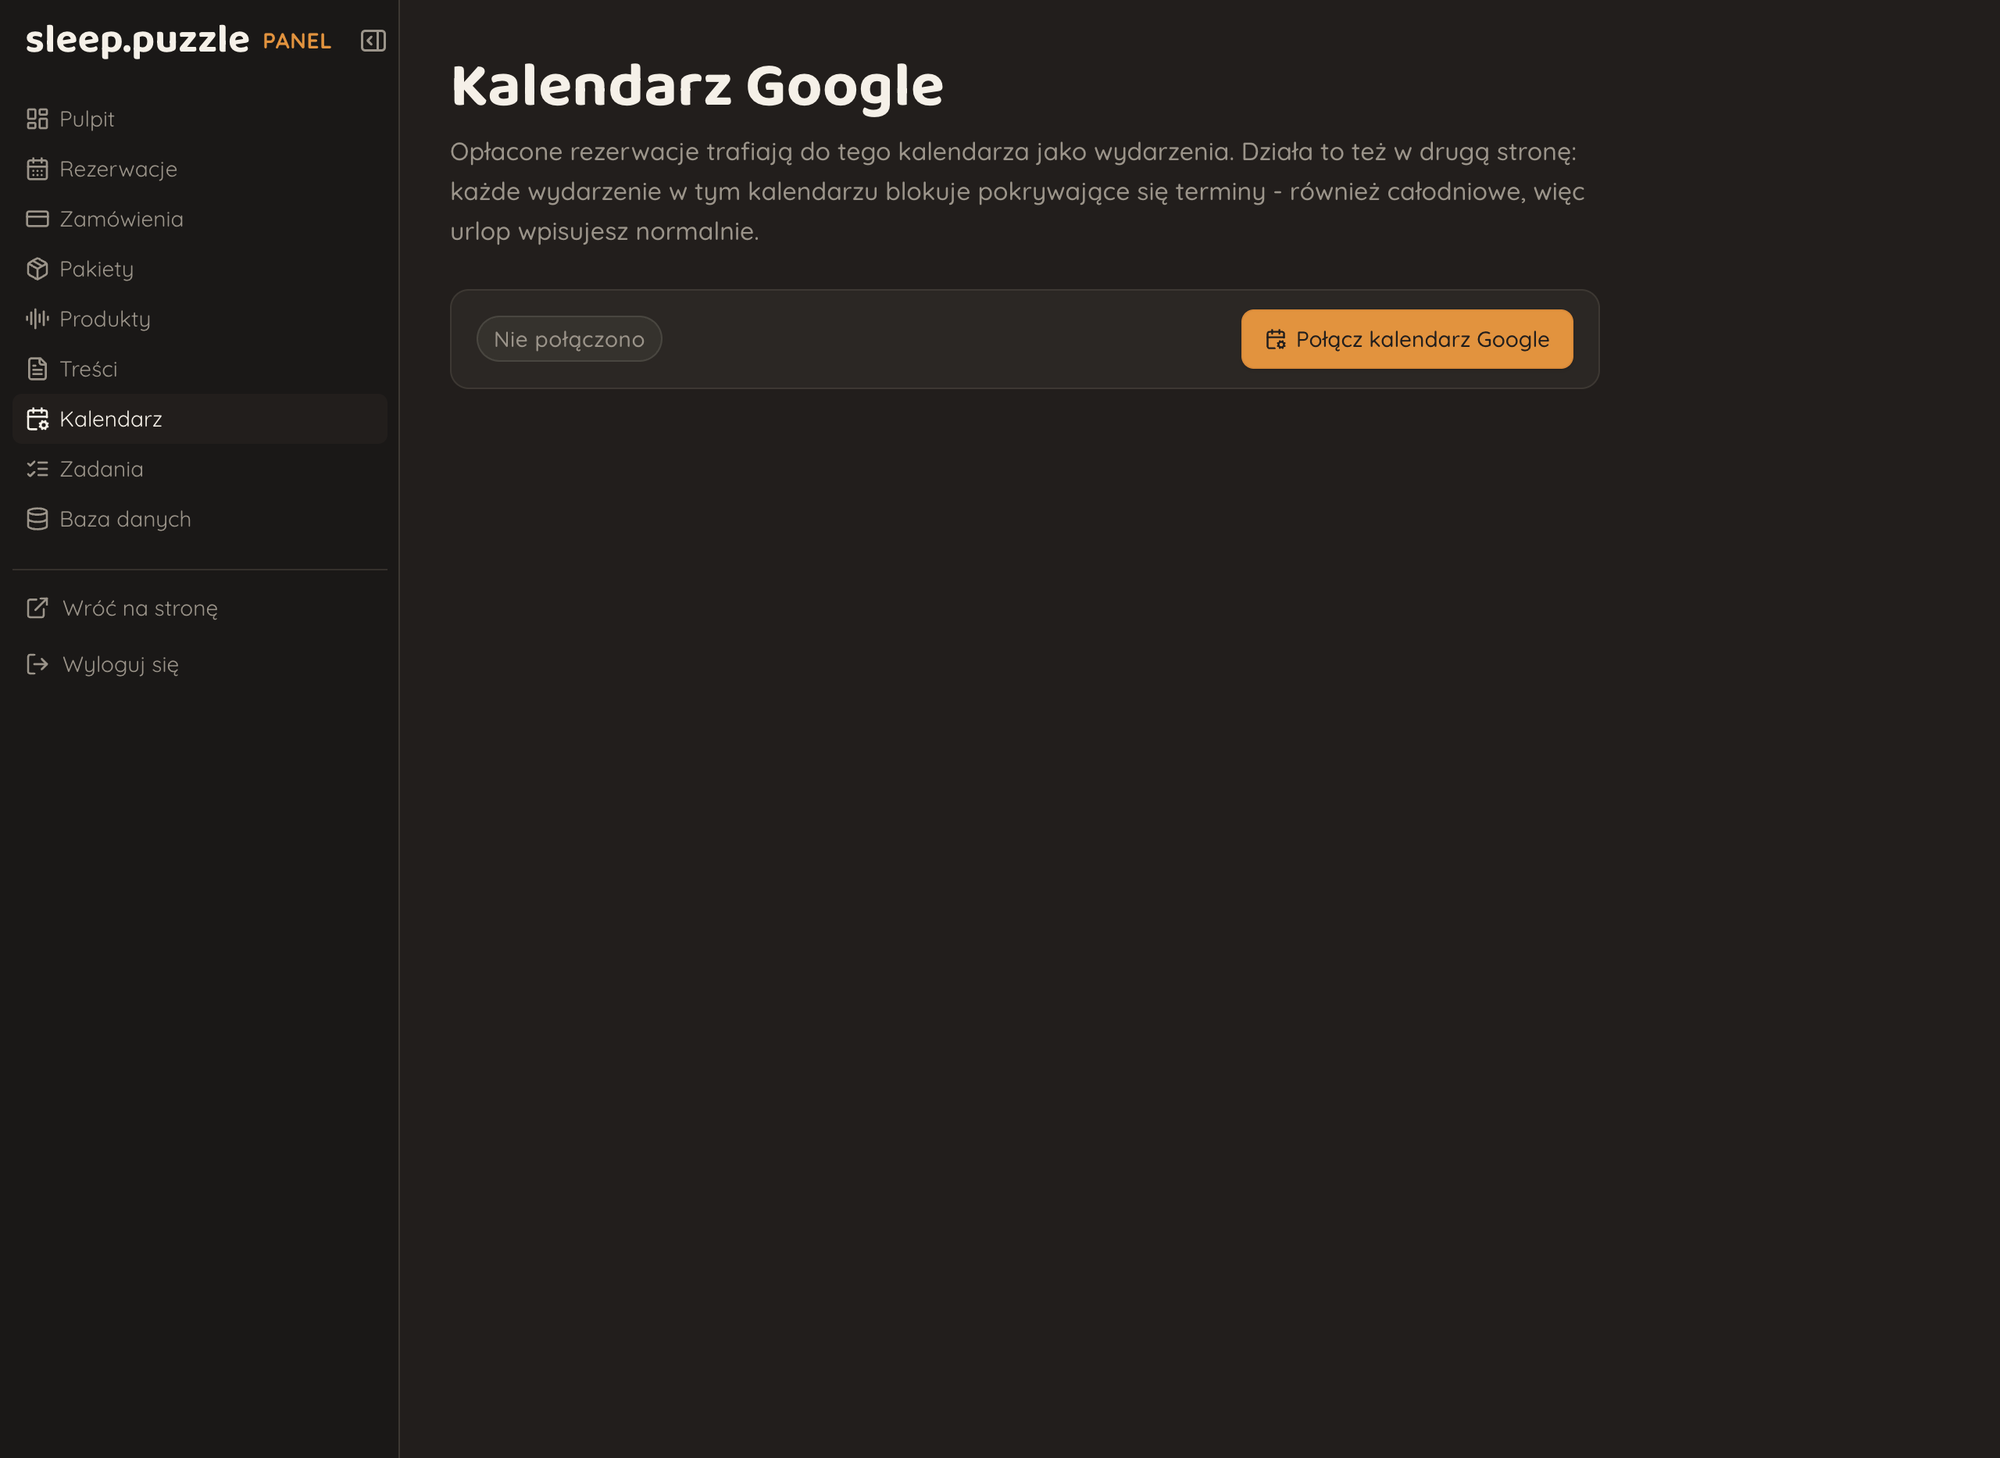
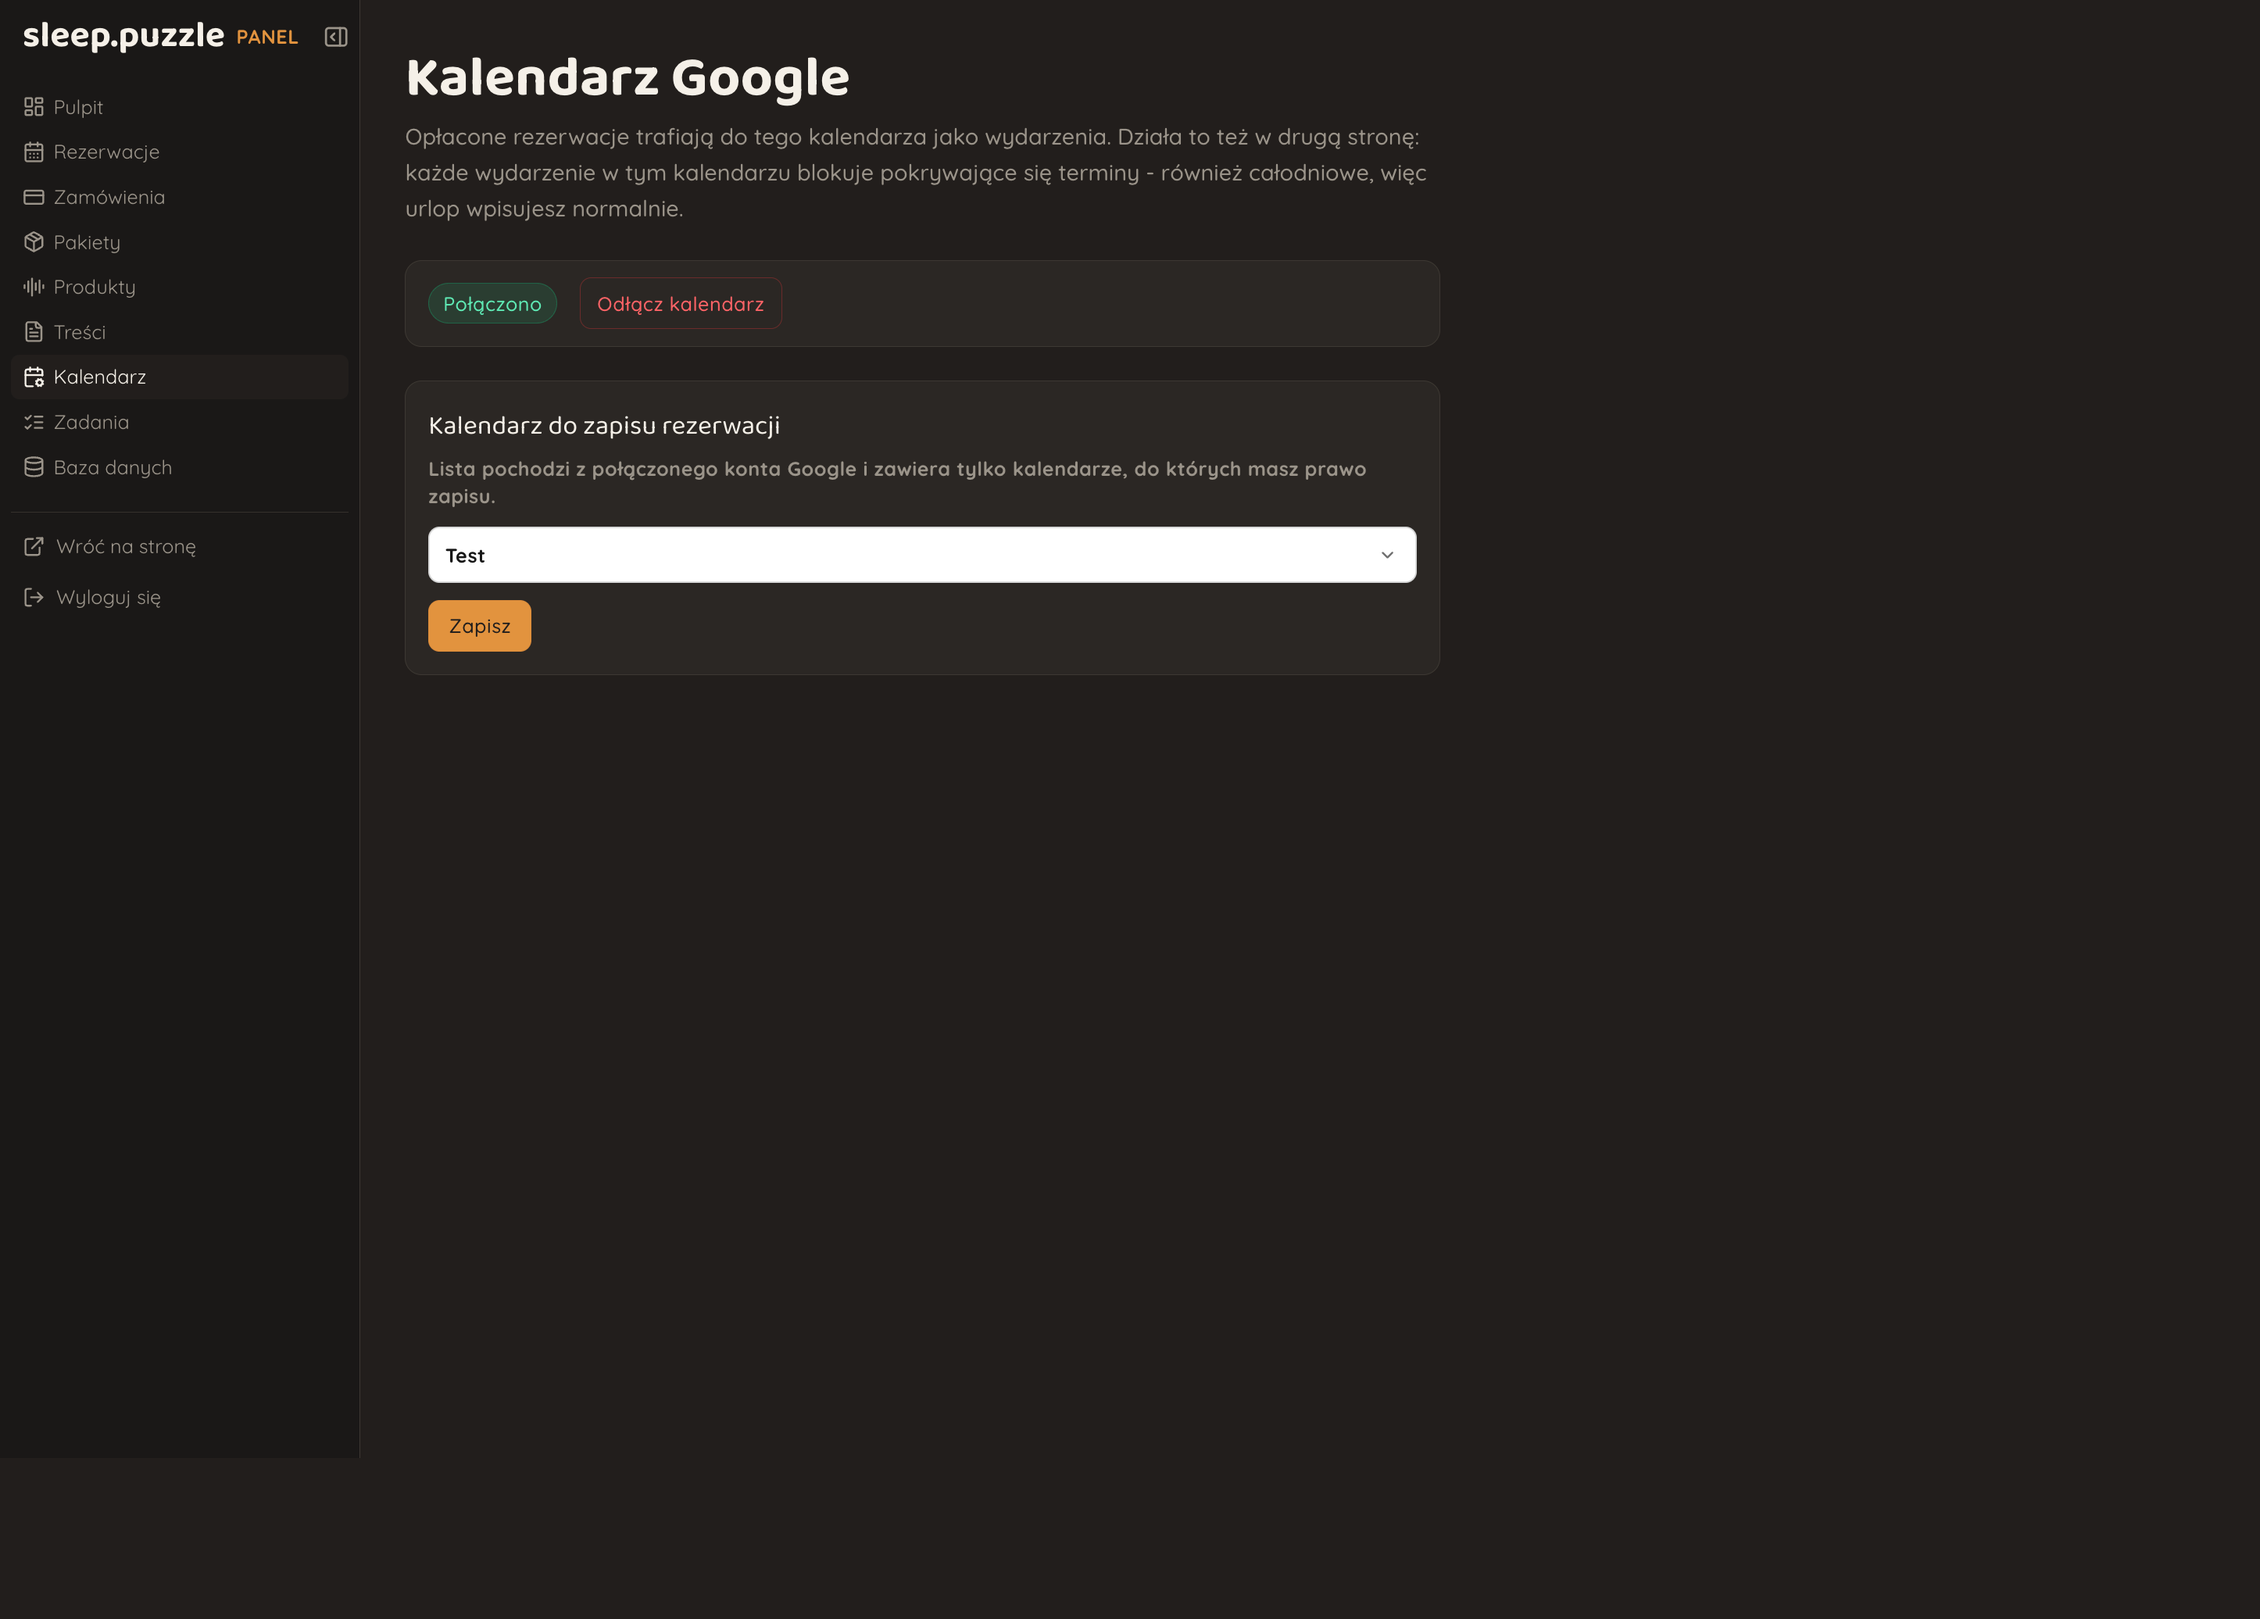
update readme calendar integration screenshot

diff --git a/README.md b/README.md
@@ -48,7 +48,7 @@ without a redeploy.
 | | |
 | --- | --- |
 | ![Admin dashboard](docs/images/admin-dashboard.png) | ![Google Calendar integration](docs/images/admin-calendar.png) |
-| **Panel.** Bookings, orders, packages, products, content, calendar, jobs and the database, all in Polish - it's staff-facing and the staff is Polish. | **Calendar.** Connect the Google account, then pick which calendar bookings are written to. Not-connected is a first-class state, not a crash. |
+| **Panel.** Bookings, orders, packages, products, content, calendar, jobs and the database, all in Polish - it's staff-facing and the staff is Polish. | **Calendar.** Connect the Google account, then pick which calendar bookings are written to. |
 | ![Editing a text and image section](docs/images/admin-cms-rich-image.png) | ![Editing a repeating collection](docs/images/admin-cms-collection.png) |
 | **Content editing.** Every page, section and field comes from `content_blocks.yml`, with Polish and English side by side and a rich-text editor where the field asks for one. | **Collections.** Repeating sections the owner can add to, reorder and delete - the same YAML declaration, rendered as a list. |
 
